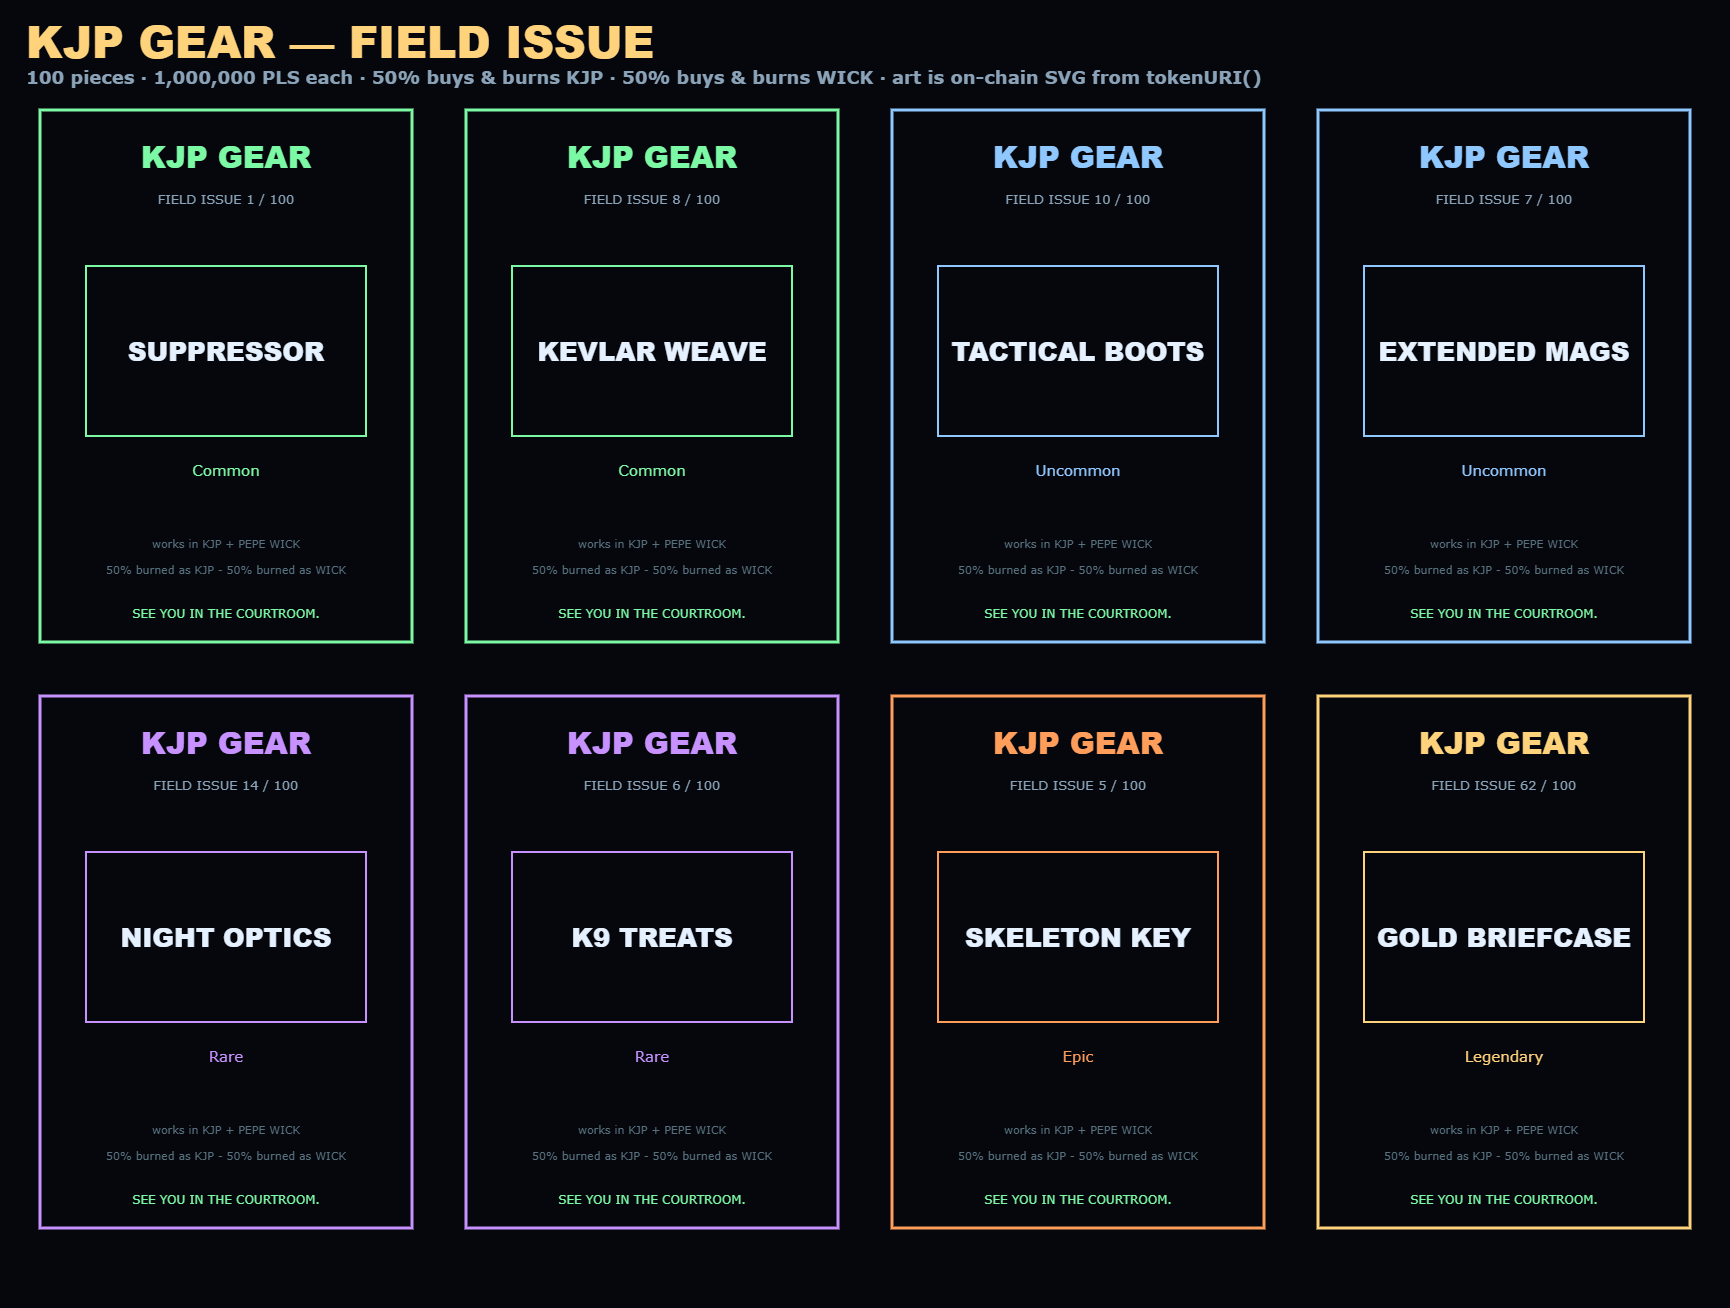
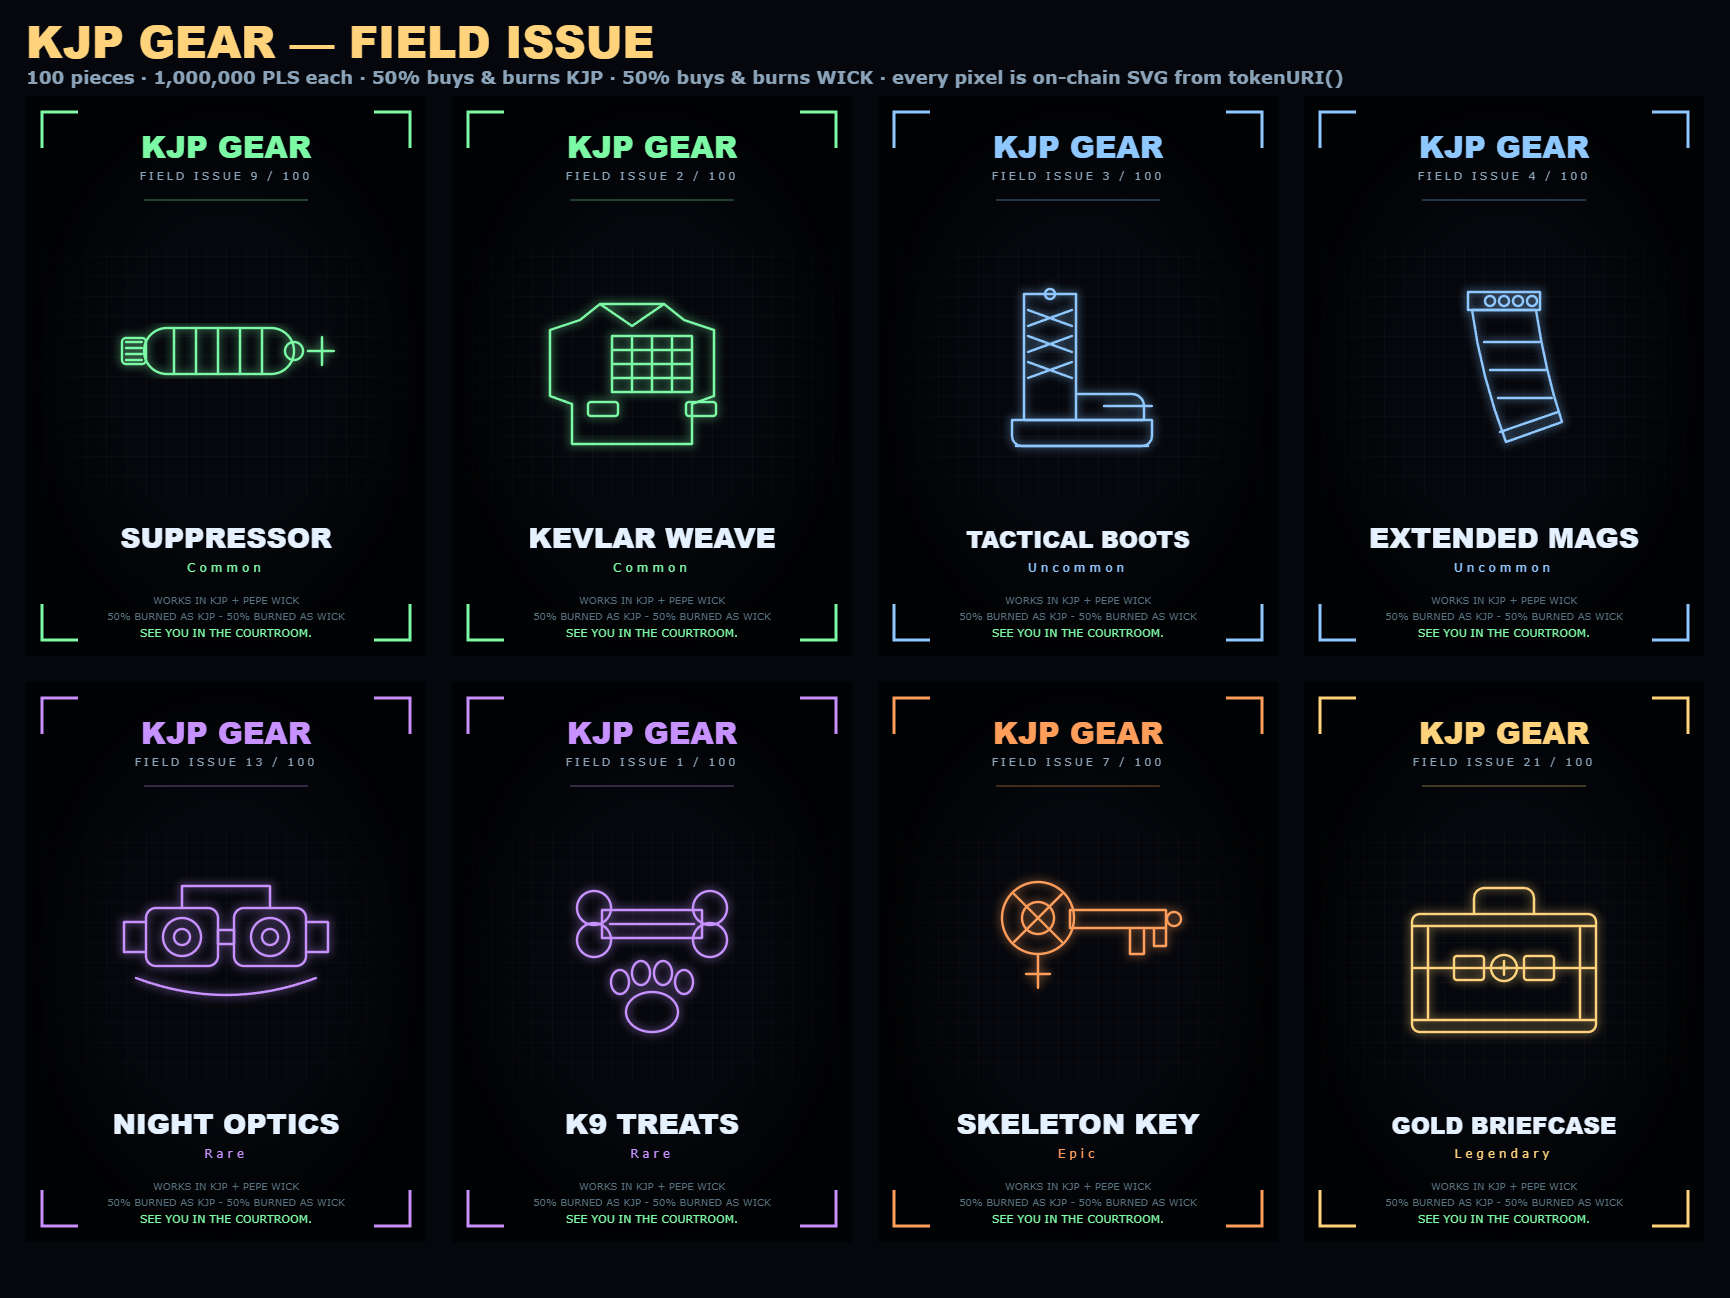
gear art: real illustrated items, drawn on-chain
The cards were typographic — a framed name. For a 1,000,000 PLS item next to
the ARSENAL guns that was the thin offering, and the art is immutable once
minted, so it had to be fixed BEFORE deploy.

Each piece is now an actual schematic of the item, generated by _art() in the
contract: suppressor with baffles and threads, plate carrier, boot with laces
and sole, curved magazine with rounds, dual-tube goggles, bone over a paw
print, ornate key, briefcase. Drawn twice per card — once blurred as its own
neon glow, once sharp — over a blueprint grid, inside the game's own HUD
corner brackets, stroked in the rarity accent so rarity reads without words.

Technical-schematic style was the right call three ways: it is the only
aesthetic that fits a story about an agency that filed everything, it is
cheap in bytecode (line art, no rasters), and it stays sharp at any size.
Contract 10.7 -> 15.3 KB, well inside the 24 KB limit. 51/51 tests still
green, split still exactly 50/50 over a simulated 100-piece run.

mint.html carries a verbatim copy of the same paths so the preview is the
card you actually receive.

diff --git a/mint.html b/mint.html
@@ -149,24 +149,47 @@ const GEAR = [
    SAME SVG the contract emits, so what you see here is literally the art you
    receive — accent colour, rarity, pledge line and all. */
 const ACCENT = { Common:"#7cf9a5", Uncommon:"#8fc7ff", Rare:"#c792ff", Epic:"#ff9d5b", Legendary:"#ffd27c" };
-function cardSVG(name, rarity, id){
-  const a = ACCENT[rarity];
+/* These schematics are copied VERBATIM from KJPGear.sol's _art() — the card you
+   see here is the card the contract mints. If you edit one, edit both. */
+const ART = [
+ "<rect x='118' y='232' width='150' height='46' rx='23'/><rect x='96' y='242' width='24' height='26' rx='4'/><path d='M100 246h16M100 252h16M100 258h16M100 264h16'/><path d='M148 232v46M170 232v46M192 232v46M214 232v46M236 232v46'/><circle cx='268' cy='255' r='9'/><path d='M282 255h26M296 241v28'/>",
+ "<path d='M148 208h64l20 16 30 10v66l-22 8v40h-120v-40l-22-8v-66l30-10z'/><path d='M160 240h80v56h-80z'/><path d='M160 254h80M160 268h80M160 282h80M180 240v56M200 240v56M220 240v56'/><path d='M148 208l32 22M212 208l-32 22'/><rect x='136' y='306' width='30' height='14' rx='3'/><rect x='234' y='306' width='30' height='14' rx='3'/>",
+ "<path d='M146 198h52v100h56a12 12 0 0 1 12 12v14H146z'/><path d='M134 324h140v16a10 10 0 0 1-10 10H144a10 10 0 0 1-10-10z'/><path d='M138 350h132'/><path d='M150 214l44 16M194 214l-44 16M150 240l44 16M194 240l-44 16M150 266l44 16M194 266l-44 16'/><path d='M198 298v26M226 310h48'/><circle cx='172' cy='198' r='5'/>",
+ "<path d='M164 196h72v18h-72z'/><path d='M168 214h64c6 40 14 76 26 112l-56 20c-16-42-28-88-34-132z'/><circle cx='186' cy='205' r='5'/><circle cx='200' cy='205' r='5'/><circle cx='214' cy='205' r='5'/><circle cx='228' cy='205' r='5'/><path d='M180 246h56M186 274h56M194 302h54'/><path d='M196 336l58-20'/>",
+ "<rect x='120' y='226' width='72' height='58' rx='10'/><rect x='208' y='226' width='72' height='58' rx='10'/><circle cx='156' cy='255' r='19'/><circle cx='244' cy='255' r='19'/><circle cx='156' cy='255' r='8'/><circle cx='244' cy='255' r='8'/><path d='M192 248h16v14h-16z'/><path d='M120 240h-22v30h22M280 240h22v30h-22'/><path d='M156 226v-22h88v22'/><path d='M110 296q90 34 180 0'/>",
+ "<circle cx='142' cy='226' r='17'/><circle cx='142' cy='258' r='17'/><circle cx='258' cy='226' r='17'/><circle cx='258' cy='258' r='17'/><path d='M150 228h100v28H150z'/><path d='M158 242h84'/><ellipse cx='200' cy='330' rx='26' ry='20'/><ellipse cx='168' cy='300' rx='9' ry='12'/><ellipse cx='189' cy='291' rx='9' ry='12'/><ellipse cx='211' cy='291' rx='9' ry='12'/><ellipse cx='232' cy='300' rx='9' ry='12'/>",
+ "<circle cx='160' cy='236' r='36'/><circle cx='160' cy='236' r='16'/><path d='M136 212l48 48M184 212l-48 48'/><path d='M192 228h96v18h-96z'/><path d='M252 246v26h14v-26M276 246v18h12v-18'/><circle cx='296' cy='237' r='7'/><path d='M160 272v34M148 292h24'/>",
+ "<rect x='108' y='232' width='184' height='118' rx='8'/><path d='M170 232v-16a10 10 0 0 1 10-10h40a10 10 0 0 1 10 10v16'/><path d='M108 286h184'/><rect x='150' y='274' width='30' height='24' rx='3'/><rect x='220' y='274' width='30' height='24' rx='3'/><path d='M124 246v90M276 246v90'/><path d='M108 244h184M108 338h184'/><circle cx='200' cy='286' r='13'/><path d='M200 279v14M195 286h10'/>"
+];
+function cardSVG(name, rarity, id, i){
+  const a = ACCENT[rarity], art = ART[i] || "";
   return `<svg xmlns="http://www.w3.org/2000/svg" viewBox="0 0 400 560" style="width:100%;display:block;border-radius:8px">
+  <defs>
+    <pattern id="g${i}" width="20" height="20" patternUnits="userSpaceOnUse">
+      <path d="M20 0H0V20" fill="none" stroke="${a}" stroke-width=".5" opacity=".13"/></pattern>
+    <radialGradient id="v${i}"><stop offset=".55" stop-color="#000" stop-opacity="0"/>
+      <stop offset="1" stop-color="#000" stop-opacity=".75"/></radialGradient>
+    <filter id="b${i}"><feGaussianBlur stdDeviation="4"/></filter>
+  </defs>
   <rect width="400" height="560" fill="#05070c"/>
-  <rect x="14" y="14" width="372" height="532" fill="none" stroke="${a}" stroke-width="3"/>
-  <text x="200" y="72" text-anchor="middle" font-family="Arial Black" font-size="30" fill="${a}">KJP GEAR</text>
-  <text x="200" y="108" text-anchor="middle" font-family="Verdana" font-size="13" fill="#8ba3b8">FIELD ISSUE ${id} / 100</text>
-  <rect x="60" y="170" width="280" height="170" fill="none" stroke="${a}" stroke-width="2"/>
-  <text x="200" y="265" text-anchor="middle" font-family="Arial Black" font-size="${name.length>13?21:26}" fill="#e6f1ff">${name}</text>
-  <text x="200" y="380" text-anchor="middle" font-family="Verdana" font-size="15" fill="${a}">${rarity}</text>
-  <text x="200" y="452" text-anchor="middle" font-family="Verdana" font-size="11" fill="#57717f">works in KJP + PEPE WICK</text>
-  <text x="200" y="478" text-anchor="middle" font-family="Verdana" font-size="11" fill="#57717f">50% burned as KJP - 50% burned as WICK</text>
-  <text x="200" y="522" text-anchor="middle" font-family="Verdana" font-size="12" fill="#7cf9a5">SEE YOU IN THE COURTROOM.</text>
+  <rect x="18" y="150" width="364" height="250" fill="url(#g${i})"/>
+  <g fill="none" stroke="${a}" stroke-width="7" opacity=".30" filter="url(#b${i})">${art}</g>
+  <g fill="none" stroke="${a}" stroke-width="2.4" stroke-linejoin="round" stroke-linecap="round">${art}</g>
+  <rect width="400" height="560" fill="url(#v${i})"/>
+  <g fill="none" stroke="${a}" stroke-width="3"><path d="M16 52V16h36M348 16h36v36M384 508v36h-36M52 544H16v-36"/></g>
+  <text x="200" y="62" text-anchor="middle" font-family="Arial Black" font-size="30" fill="${a}">KJP GEAR</text>
+  <text x="200" y="84" text-anchor="middle" font-family="Verdana" font-size="11" fill="#8ba3b8" letter-spacing="3">FIELD ISSUE ${id} / 100</text>
+  <path d="M118 104h164" stroke="${a}" stroke-width="1" opacity=".5"/>
+  <text x="200" y="452" text-anchor="middle" font-family="Arial Black" font-size="${name.length>13?23:28}" fill="#e6f1ff">${name}</text>
+  <text x="200" y="476" text-anchor="middle" font-family="Verdana" font-size="12" fill="${a}" letter-spacing="4">${rarity}</text>
+  <text x="200" y="508" text-anchor="middle" font-family="Verdana" font-size="10" fill="#57717f">WORKS IN KJP + PEPE WICK</text>
+  <text x="200" y="524" text-anchor="middle" font-family="Verdana" font-size="10" fill="#57717f">50% BURNED AS KJP - 50% BURNED AS WICK</text>
+  <text x="200" y="541" text-anchor="middle" font-family="Verdana" font-size="11" fill="#7cf9a5">SEE YOU IN THE COURTROOM.</text>
 </svg>`;
 }
 document.getElementById("grid").innerHTML = GEAR.map((g, i) => `
   <div class="card ${g.r}">
-    ${cardSVG(g.n, g.r, "??")}
+    ${cardSVG(g.n, g.r, "??", i)}
     <h3 style="margin-top:11px">${g.n}</h3>
     <div class="r">${g.r}</div>
     <p><b style="color:#7cf9a5">KJP</b> — ${g.kjp}</p>
